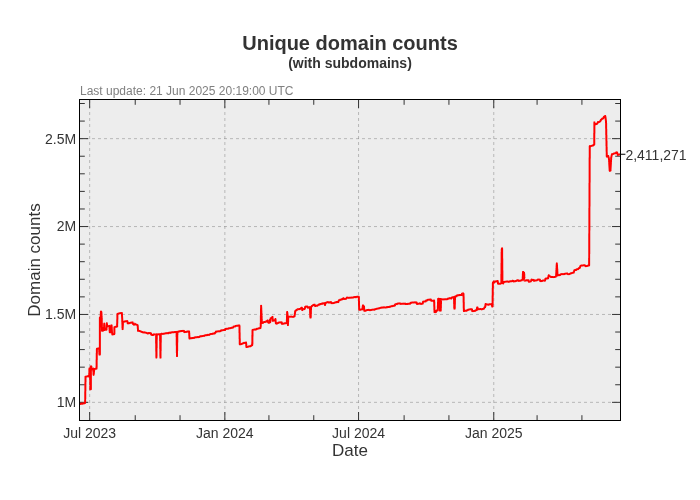
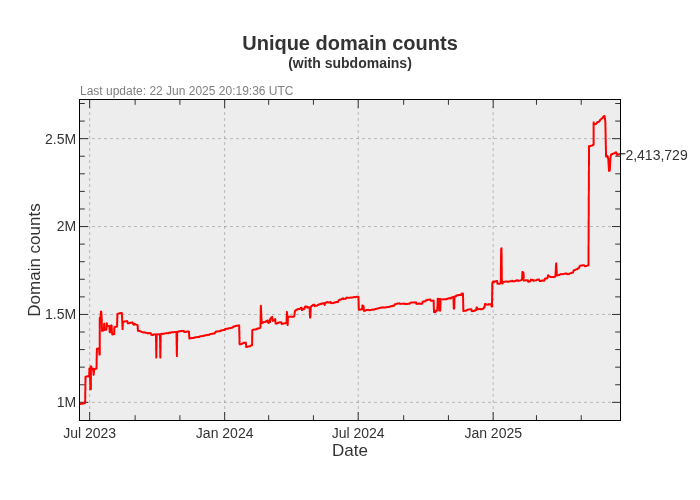
Update pages

diff --git a/README.md b/README.md
@@ -3,23 +3,23 @@ A blocklist file for blocking ads, trackers and malware domains.
 
[1 lines of base64/hex data omitted]
 
-- Unique domains: 2,411,271
-- Without subdomains: 1,717,420
-- Last update: 21 Jun 2025 20:19:00 UTC
-- Version: 2025.06.21.01
+- Unique domains: 2,413,729
+- Without subdomains: 1,719,340
+- Last update: 22 Jun 2025 20:19:36 UTC
+- Version: 2025.06.22.01
 
 
 ### Downloads:
 
 | Format             | Domain count      | Download Link |
 |:------------------ | -----------------:|:-------------:|
-| *Adblock Plus*     | 1,717,420 | [Download](https://dl.cenk.app/bad-hosts/bad-hosts-abp) |
-| *Wildcard domains* | 1,717,420 | [Download](https://dl.cenk.app/bad-hosts/bad-hosts-wildcard) |
-| *dnsmasq*          | 1,717,420 | [Download](https://dl.cenk.app/bad-hosts/bad-hosts-dnsmasq) |
-| *Unbound*          | 1,717,420 | [Download](https://dl.cenk.app/bad-hosts/bad-hosts-unbound) |
-| *hosts*            | 2,411,271 | [Download](https://dl.cenk.app/bad-hosts/hosts) |
-| *hosts (ipv6)*     | 2,411,271 | [Download](https://dl.cenk.app/bad-hosts/hosts-ipv6) |
-| *Plain domains*    | 2,411,271 | [Download](https://dl.cenk.app/bad-hosts/bad-hosts-domains) |
+| *Adblock Plus*     | 1,719,340 | [Download](https://dl.cenk.app/bad-hosts/bad-hosts-abp) |
+| *Wildcard domains* | 1,719,340 | [Download](https://dl.cenk.app/bad-hosts/bad-hosts-wildcard) |
+| *dnsmasq*          | 1,719,340 | [Download](https://dl.cenk.app/bad-hosts/bad-hosts-dnsmasq) |
+| *Unbound*          | 1,719,340 | [Download](https://dl.cenk.app/bad-hosts/bad-hosts-unbound) |
+| *hosts*            | 2,413,729 | [Download](https://dl.cenk.app/bad-hosts/hosts) |
+| *hosts (ipv6)*     | 2,413,729 | [Download](https://dl.cenk.app/bad-hosts/hosts-ipv6) |
+| *Plain domains*    | 2,413,729 | [Download](https://dl.cenk.app/bad-hosts/bad-hosts-domains) |
 
 ### Domain count history
 #### With subdomains
